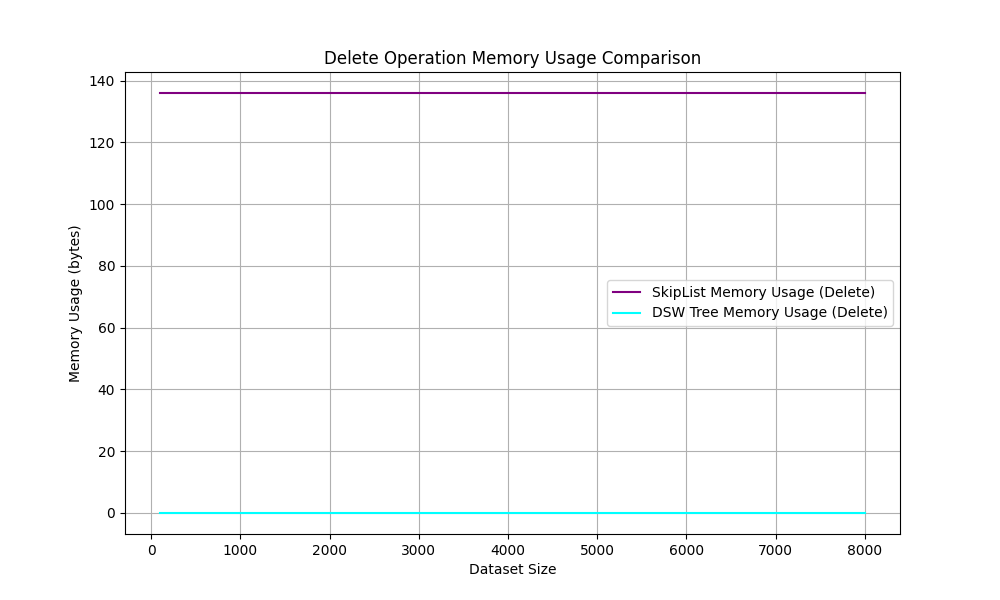
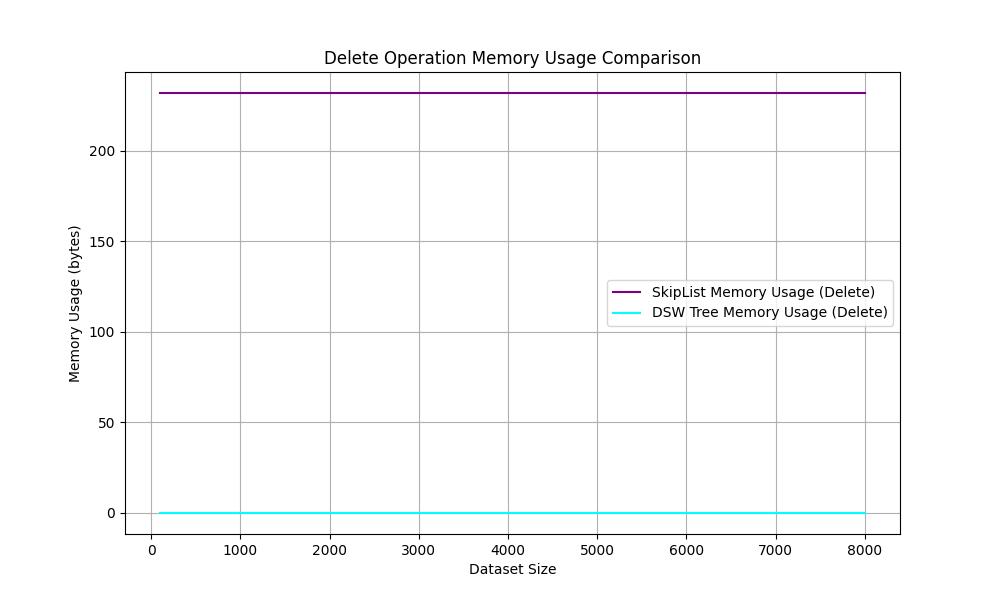
Updated results and images, modified dsw.py and skiplist.py

diff --git a/dsw.py b/dsw.py
@@ -1,10 +1,14 @@
 import graphviz
+import numpy as np  # Import numpy for arrays
 
 class TreeNode:
     def __init__(self, value):
         self.value = value
-        self.left = None
-        self.right = None
+        # We will use np.array to hold references to left and right children
+        self.children = np.array([None, None], dtype=object)  # [left, right]
+
+    def __repr__(self):
+        return f"TreeNode({self.value})"
 
 class BinaryTree:
     def __init__(self):
@@ -18,28 +22,28 @@ class BinaryTree:
 
     def _insert_rec(self, node, value):
         if value < node.value:
-            if node.left:
-                self._insert_rec(node.left, value)
+            if node.children[0] is None:
+                node.children[0] = TreeNode(value)
             else:
-                node.left = TreeNode(value)
+                self._insert_rec(node.children[0], value)
         else:
-            if node.right:
-                self._insert_rec(node.right, value)
+            if node.children[1] is None:
+                node.children[1] = TreeNode(value)
             else:
-                node.right = TreeNode(value)
+                self._insert_rec(node.children[1], value)
     
     def search(self, value):
         return self._search_rec(self.root, value)
 
     def _search_rec(self, node, value):
-        if not node:  # If the node is None, value is not found
+        if not node:
             return None
         if node.value == value:
             return node
         elif value < node.value:
-            return self._search_rec(node.left, value)
+            return self._search_rec(node.children[0], value)
         else:
-            return self._search_rec(node.right, value)
+            return self._search_rec(node.children[1], value)
         
     def delete(self, value):
         self.root = self._delete_rec(self.root, value)
@@ -48,35 +52,28 @@ class BinaryTree:
         if not node:
             return node
 
-        # Find the node to delete
         if value < node.value:
-            node.left = self._delete_rec(node.left, value)
+            node.children[0] = self._delete_rec(node.children[0], value)
         elif value > node.value:
-            node.right = self._delete_rec(node.right, value)
+            node.children[1] = self._delete_rec(node.children[1], value)
         else:
-            # Node to delete is found
-
-            # Case 1: Node has no children (leaf node)
-            if not node.left and not node.right:
+            if not node.children[0] and not node.children[1]:
                 return None
+            if not node.children[0]:
+                return node.children[1]
+            elif not node.children[1]:
+                return node.children[0]
 
-            # Case 2: Node has one child
-            if not node.left:
-                return node.right
-            elif not node.right:
-                return node.left
-
-            # Case 3: Node has two children
-            min_larger_node = self._get_min(node.right)
-            node.value = min_larger_node.value  # Replace node with its in-order successor
-            node.right = self._delete_rec(node.right, min_larger_node.value)
+            min_larger_node = self._get_min(node.children[1])
+            node.value = min_larger_node.value
+            node.children[1] = self._delete_rec(node.children[1], min_larger_node.value)
 
         return node
 
     def _get_min(self, node):
         current = node
-        while current.left:
-            current = current.left
+        while current.children[0]:
+            current = current.children[0]
         return current
 
     def generate_graphviz(self):
@@ -86,12 +83,12 @@ class BinaryTree:
             if not node:
                 return
             dot.node(str(id(node)), str(node.value))
-            if node.left:
-                dot.edge(str(id(node)), str(id(node.left)))
-                add_nodes_edges(node.left)
-            if node.right:
-                dot.edge(str(id(node)), str(id(node.right)))
-                add_nodes_edges(node.right)
+            if node.children[0]:
+                dot.edge(str(id(node)), str(id(node.children[0])))
+                add_nodes_edges(node.children[0])
+            if node.children[1]:
+                dot.edge(str(id(node)), str(id(node.children[1])))
+                add_nodes_edges(node.children[1])
         
         add_nodes_edges(self.root)
         return dot
@@ -108,30 +105,28 @@ class BinaryTree:
         print("Balanced tree:\n")
         self.generate_graphviz().render("balanced_tree", format="png", cleanup=True)
 
-
     def create_backbone(self):
         pseudo_root = TreeNode(0)
-        pseudo_root.right = self.root
+        pseudo_root.children[1] = self.root
         current = pseudo_root
 
-        while current.right:
-            if current.right.left:
+        while current.children[1]:
+            if current.children[1].children[0]:
                 self.rotate_right(current)
             else:
-                current = current.right
+                current = current.children[1]
 
-        self.root = pseudo_root.right
+        self.root = pseudo_root.children[1]
 
     def rotate_right(self, parent):
-        child = parent.right
-        parent.right = child.left
-        child.left = parent.right.right
-        parent.right.right = child
+        child = parent.children[1]
+        parent.children[1] = child.children[0]
+        child.children[0] = parent.children[1].children[1]
+        parent.children[1].children[1] = child
 
     def balance_tree(self):
         n = self.get_size()
         m = (2 ** (n.bit_length() - 1)) - 1
-
         self.perform_rotations(n - m)
 
         while m > 1:
@@ -140,33 +135,31 @@ class BinaryTree:
 
     def perform_rotations(self, count):
         parent = TreeNode(0)
-        parent.right = self.root
+        parent.children[1] = self.root
         current = parent
 
         for _ in range(count):
-            if not current.right or not current.right.right:
+            if not current.children[1] or not current.children[1].children[1]:
                 break  # Avoid invalid rotations
             self.rotate_left(current)
-            current = current.right
+            current = current.children[1]
 
-        self.root = parent.right
-
+        self.root = parent.children[1]
 
     def rotate_left(self, parent):
-        if not parent.right or not parent.right.right:
+        if not parent.children[1] or not parent.children[1].children[1]:
             return  # Skip rotation if there are no nodes to rotate
 
-        child = parent.right
-        parent.right = child.right
-        child.right = parent.right.left
-        parent.right.left = child
-
+        child = parent.children[1]
+        parent.children[1] = child.children[1]
+        child.children[1] = parent.children[1].children[0]
+        parent.children[1].children[0] = child
 
     def get_size(self):
         def count_nodes(node):
             if not node:
                 return 0
-            return 1 + count_nodes(node.left) + count_nodes(node.right)
+            return 1 + count_nodes(node.children[0]) + count_nodes(node.children[1])
 
         return count_nodes(self.root)
     
@@ -183,10 +176,11 @@ class BinaryTree:
             results.append(node.value)
 
         if node.value > low:
-            self._range_search_rec(node.left, low, high, results)
+            self._range_search_rec(node.children[0], low, high, results)
 
         if node.value < high:
-            self._range_search_rec(node.right, low, high, results)
+            self._range_search_rec(node.children[1], low, high, results)
+
 
 # Example usage
 if __name__ == "__main__":

diff --git a/skiplist.py b/skiplist.py
@@ -1,10 +1,12 @@
 import random
+import numpy as np
 from graphviz import Digraph
 
 class Node:
     def __init__(self, key, level):
         self.key = key
-        self.forward = [None] * (level + 1)
+        # Use np.array instead of list
+        self.forward = np.array([None] * (level + 1), dtype=object)
 
 class SkipList:
     def __init__(self, max_level, p):
@@ -20,7 +22,7 @@ class SkipList:
         return lvl
 
     def insert(self, key, visualize=False):
-        update = [None] * (self.max_level + 1)
+        update = np.array([None] * (self.max_level + 1), dtype=object)
         current = self.header
 
         for i in range(self.level, -1, -1):
@@ -56,7 +58,7 @@ class SkipList:
         return None
 
     def delete(self, key, visualize=False):
-        update = [None] * (self.max_level + 1)
+        update = np.array([None] * (self.max_level + 1), dtype=object)
         current = self.header
 
         for i in range(self.level, -1, -1):
